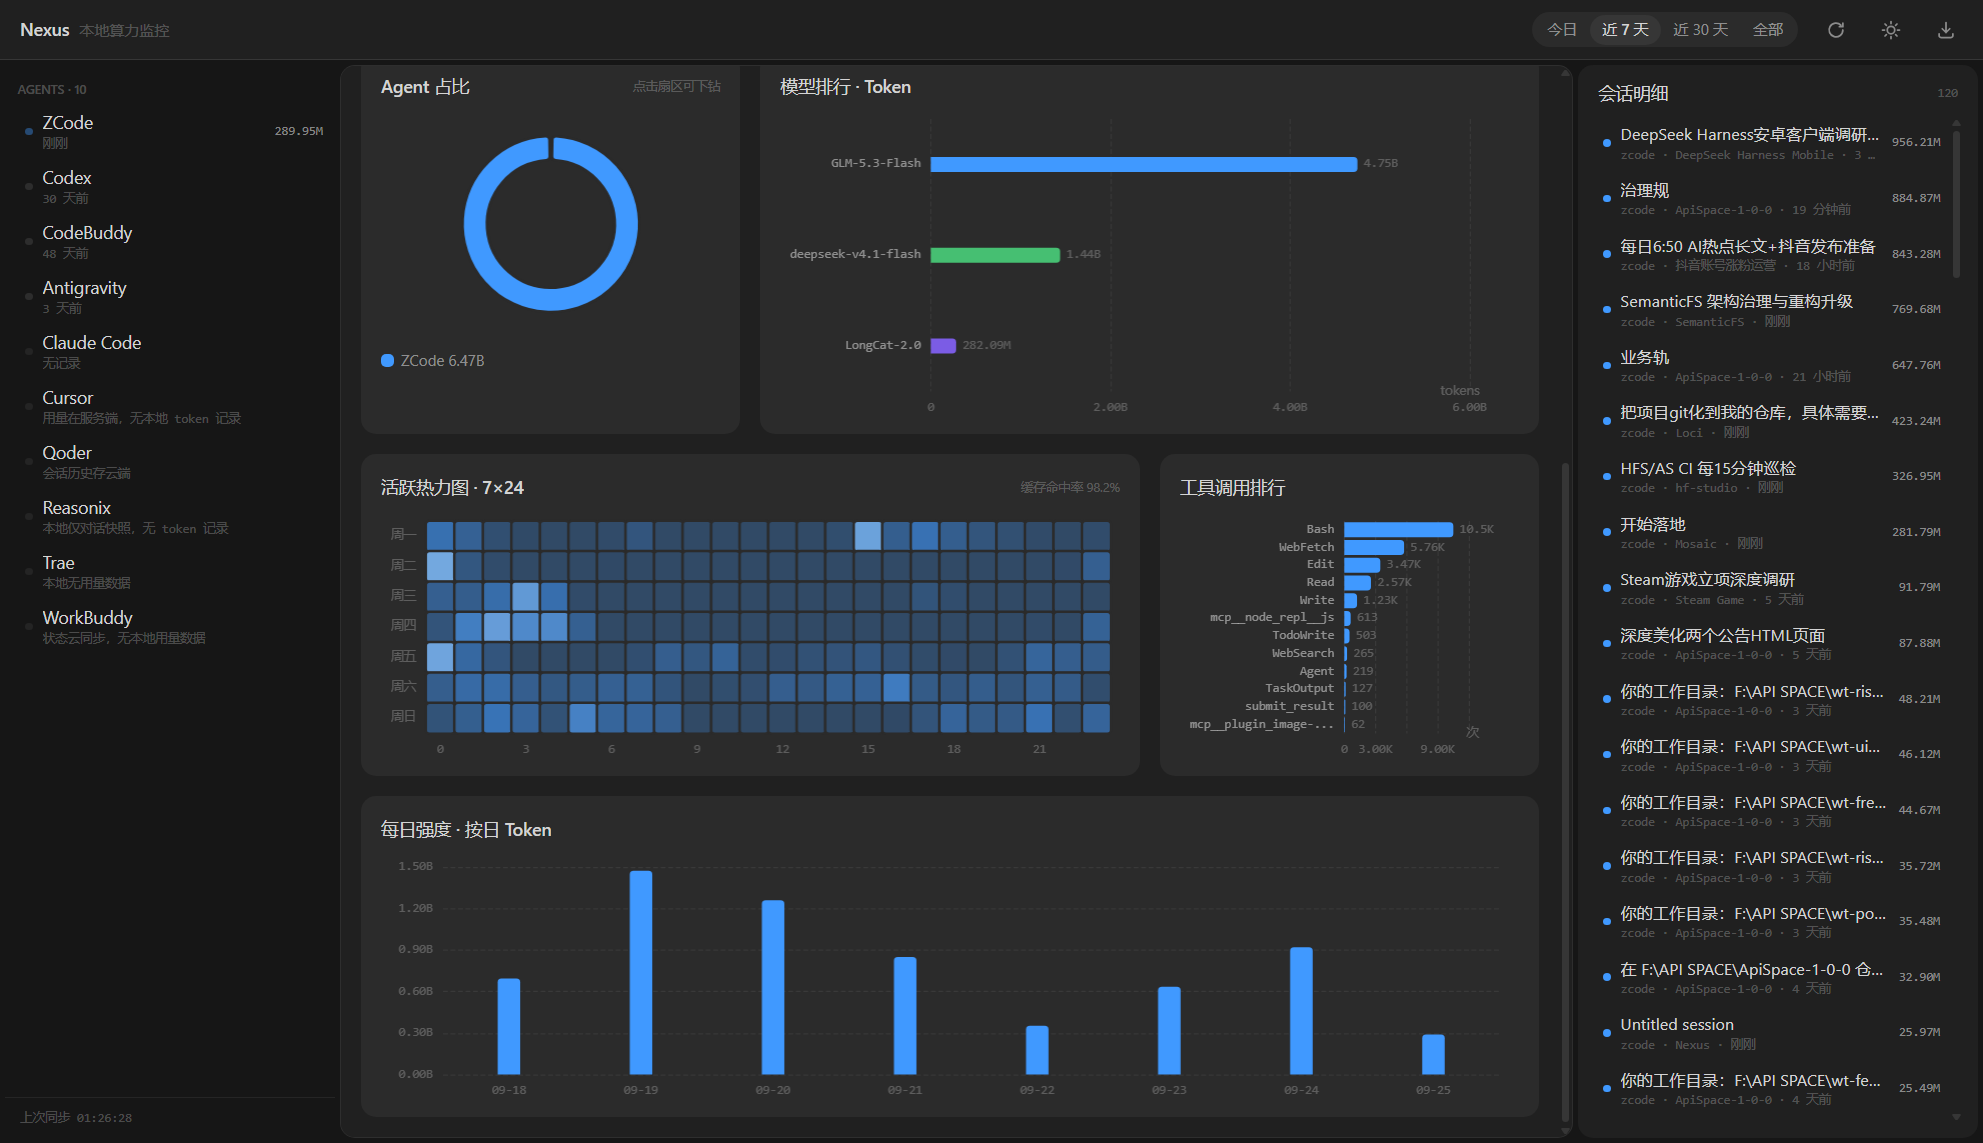
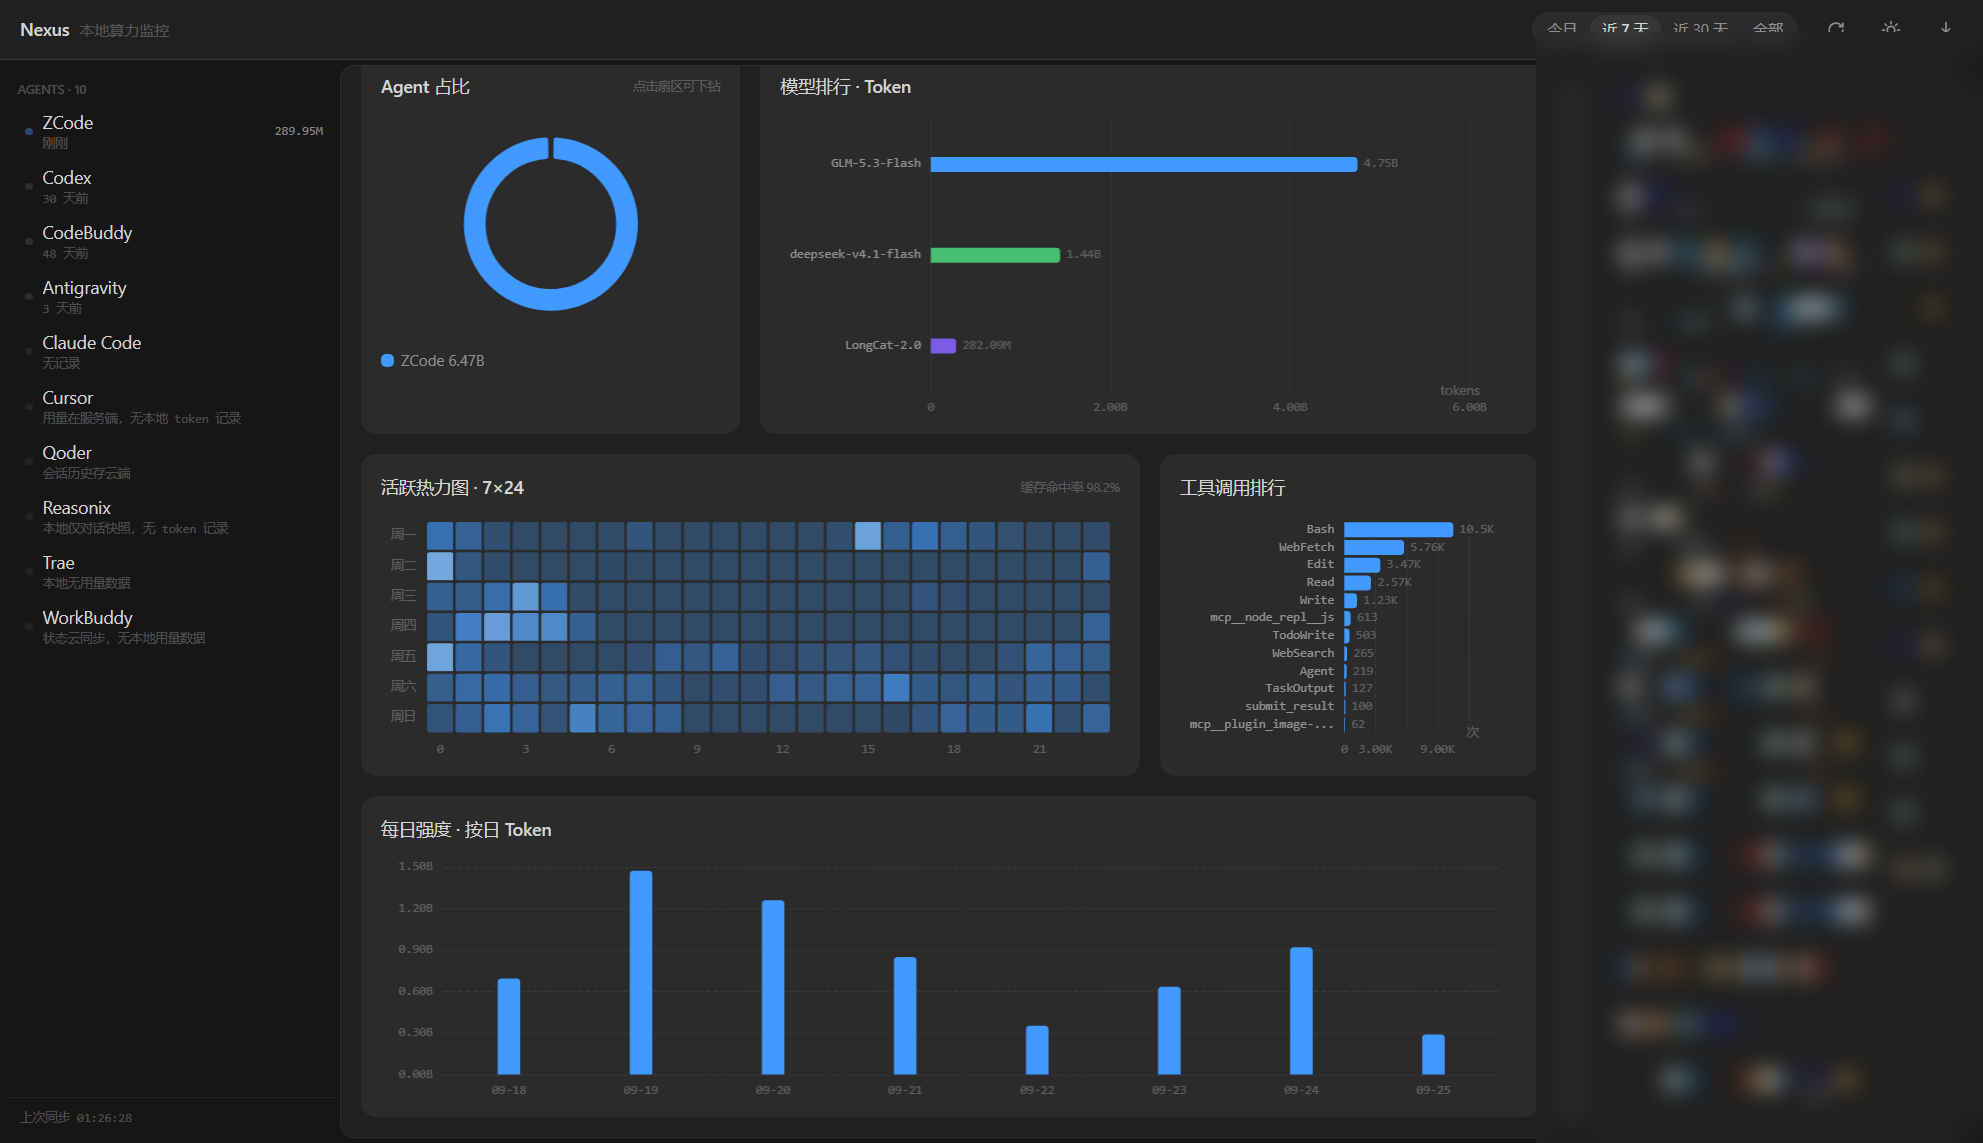
docs: README 按定位方向书重写 — 核心叙事/实拍背书/差异化对比 + LICENSE(MIT) + 截图隐私打码
- 头部两句核心叙事 + 百亿 tokens 理论章（社区观察表述，不引未核实出处）
- 实拍数据背书：570.5 亿 tokens / 1,317 会话 / 13.59 万工具调用 / 35 模型（2026-11-06 本地库实测，方向书 569.3 亿为旧值，禁区要求只用真实实测值）
- 承认先例：ccusage 开创 Claude Code 用量统计；Nexus 补三件事（中国系全覆盖/快照永久历史/桌面单文件）+ 六维诚实对比表
- LICENSE 创建（MIT），README 挂 license/version/platform/privacy 徽章
- 4 张看板截图右栏会话明细毛玻璃打码（本机路径/会话标题不可读，宣传数据保留）
- 署名：牛码 & jayc-labs 出品；导流位占位（aff 链接待 PO 提供）
- 禁区自查：无首创话术、未贬低竞品、估算保留标注、零遥测、数字全实测

diff --git a/README.md b/README.md
@@ -1,10 +1,61 @@
 # Nexus — 本地 AI Agent 算力监控中心
 
+![license](https://img.shields.io/badge/license-MIT-green) ![version](https://img.shields.io/badge/version-v0.2.24-blue) ![platform](https://img.shields.io/badge/platform-Windows-lightgrey) ![privacy](https://img.shields.io/badge/privacy-纯本地-success)
+
+> 「重度 token 消耗 ≈ AI 编程能力跃迁的必要过程；用量是这段经历的计量学证据——**你烧过的 token 就是你升级的台阶**。」
+>
+> 「**百亿 tokens 俱乐部的成员缺的不是算力，是一台里程表——Nexus 就是 AI 编程重度用户的里程表：把你烧过的每一个 Agent 的每一个 token 变成可回看、可证明、可复盘的资产。**」
+
 一个本地优先的、单一窗口的桌面应用：读取本机各 AI Agent 的本地日志/数据库与官方用量接口，把 Token 消耗、真实花费、会话、工具调用汇总成一块精美看板。**纯监控，零干预**——不改任何 Agent 的配置，不干预任何 Agent 的运行。
+
+## 为什么是 Nexus：百亿 tokens 俱乐部需要一台里程表
+
+当社区开始讨论"重度 token 使用与编程能力跃迁的因果关系"时，第一件事是——**你的用量在哪？**
+
+现实是：多数 Agent 本地只保留 30 天滚动窗口。你烧掉的 token，两周前就已经从日志里消失，成为这段成长经历里**没有凭证的传闻**。想复盘"我是怎么走到今天的"，答案永远是查无此人。
+
+Nexus 的回答：**在你烧的时候，就把它变成资产。** 首次同步即把全量历史快照进自有库，此后增量追加——从今天起，你的每一亿 token 都有账可查、有图可看、有单可对。
 
 ![dark](docs/screenshots/board-dark.png)
 
+## 570 亿 tokens 的真实环境里生长出来
+
+这不是一个对着示例数据开发的玩具。以下数字来自本工具作者本人的真实使用环境（2026-11-06 实测）：
+
+| 实拍指标 | 数值 |
+| --- | --- |
+| 累计 Token 消耗 | **570.5 亿**（57,048,538,655） |
+| 会话 | 1,317 |
+| 工具调用 | 13.59 万 |
+| 模型 | 35 个 |
+| 有精确数据的 Agent | 8 个 |
+
+**先有重度使用，才有工具**——每一个数据源接入方案，都是在真实海量数据上撞出来的。
+
 ![light](docs/screenshots/board-light.png)
+
+## 承认先例，划清差异
+
+**ccusage 开创了 Claude Code 用量统计**——它对 Claude Code 单一生态的统计深度（daily/monthly/blocks、成本计算成熟度）至今仍是同类标杆，值得每一个用量工具学习。
+
+Nexus 补上了它们没做的三件事：
+
+1. **中国系 Agent 全覆盖** —— ZCode / CodeBuddy（国内+国际版）/ DeepSeek Harness / WorkBuddy / Reasonix 等；其中 CodeBuddy 的用量维度，目前没有任何同类工具覆盖
+2. **快照式永久历史** —— 多数 Agent 本地仅留 30 天，Nexus 首次同步即全量历史照进自库，此后增量追加，永不丢失
+3. **桌面单文件形态** —— 双击 exe 即用，无后端、无浏览器、无部署
+
+### 与同类工具的诚实对比
+
+| 维度 | ccusage 及同类 CLI | 各 Agent 官方仪表盘 | **Nexus** |
+| --- | --- | --- | --- |
+| Agent 覆盖 | Claude Code（深度） | 各家只看自己 | **10 个 Agent 统一看板**，中国系全覆盖 |
+| 历史留存 | 依赖 Agent 本地数据（30 天滚动，过时不候） | 云端留存，出过事故 | **快照式永久本地历史** |
+| 形态 | CLI / npm 包 | 网页 | **单 exe 桌面看板**（无后端无浏览器） |
+| 成本视角 | API 牌价估算 | 平台账单 | **等效估算（明确标注）+ 官方账单对账** |
+| 隐私 | 本地运行 | 数据在云端 | **一切留在本机，只读模式** |
+| 语言 | 英文 | 各家不一 | **中文优先** |
+
+> ccusage 的历史数据可导入规划已在路线图中（生态兼容优先级最高的接口）。
 
 ## 核心特性
 
@@ -17,7 +68,7 @@
 - **侧栏双分类**：Agent / 厂商两种视图切换，全部使用各平台官方 Logo。
 - **多开感知**：ZCode 等支持多实例并存的应用，侧栏直接透出存活实例数。
 - **性能**：单遍聚合 + 看板缓存预热，13 万+ 用量记录下切换时间范围/Agent 依然即时响应。
-- **隐私**：一切数据留在本机；读取用户 Agent 数据库时一律只读模式。
+- **隐私**：一切数据留在本机；读取用户 Agent 数据库时一律只读模式；不加入任何云上报、遥测或账号体系。
 
 ## 已接入的数据源
 
@@ -36,6 +87,12 @@
 | Qoder / Trae / Cursor | 本地无结构化 token 数据（见调研报告） | 仅感知安装状态 |
 
 详见 `docs/research/agent-datasource-report.md`。
+
+## 路线图
+
+- [ ] ccusage JSONL 历史导入（从竞品零成本迁移）
+- [ ] macOS 支持（当前 Windows 优先，目标用户画像重合）
+- [ ] Demo 数据动图
 
 ## 开发
 
@@ -62,6 +119,10 @@ NEXUS_DEBUG=1 npm run dev        # 转发渲染进程 console 到终端
 
 - 文档同步：`docs/modules/index.md` + 各模块 md，秒级时间戳。
 - 红蓝对抗审计：AI 子代理循环审计直至通过，结论见 `docs/reports/PROJECT_LAUNCH_REPORT.md`。
+- License：[MIT](LICENSE)。
 
 ---
-负责人/作者：xiaotaoya2022 ｜ 版本：v0.2.24 ｜ 仓库：`xiaotaoya2022-cell/nexus`（私有）
+
+**牛码 & jayc-labs 出品**
+
+> 你的 Agent 用量也可以被守护：[ApiSpace](https://github.com/xiaotaoya2022-cell/nexus#) <!-- TODO(PO): 替换为 ApiSpace 注册 aff 链接（InviterId 归因） -->
